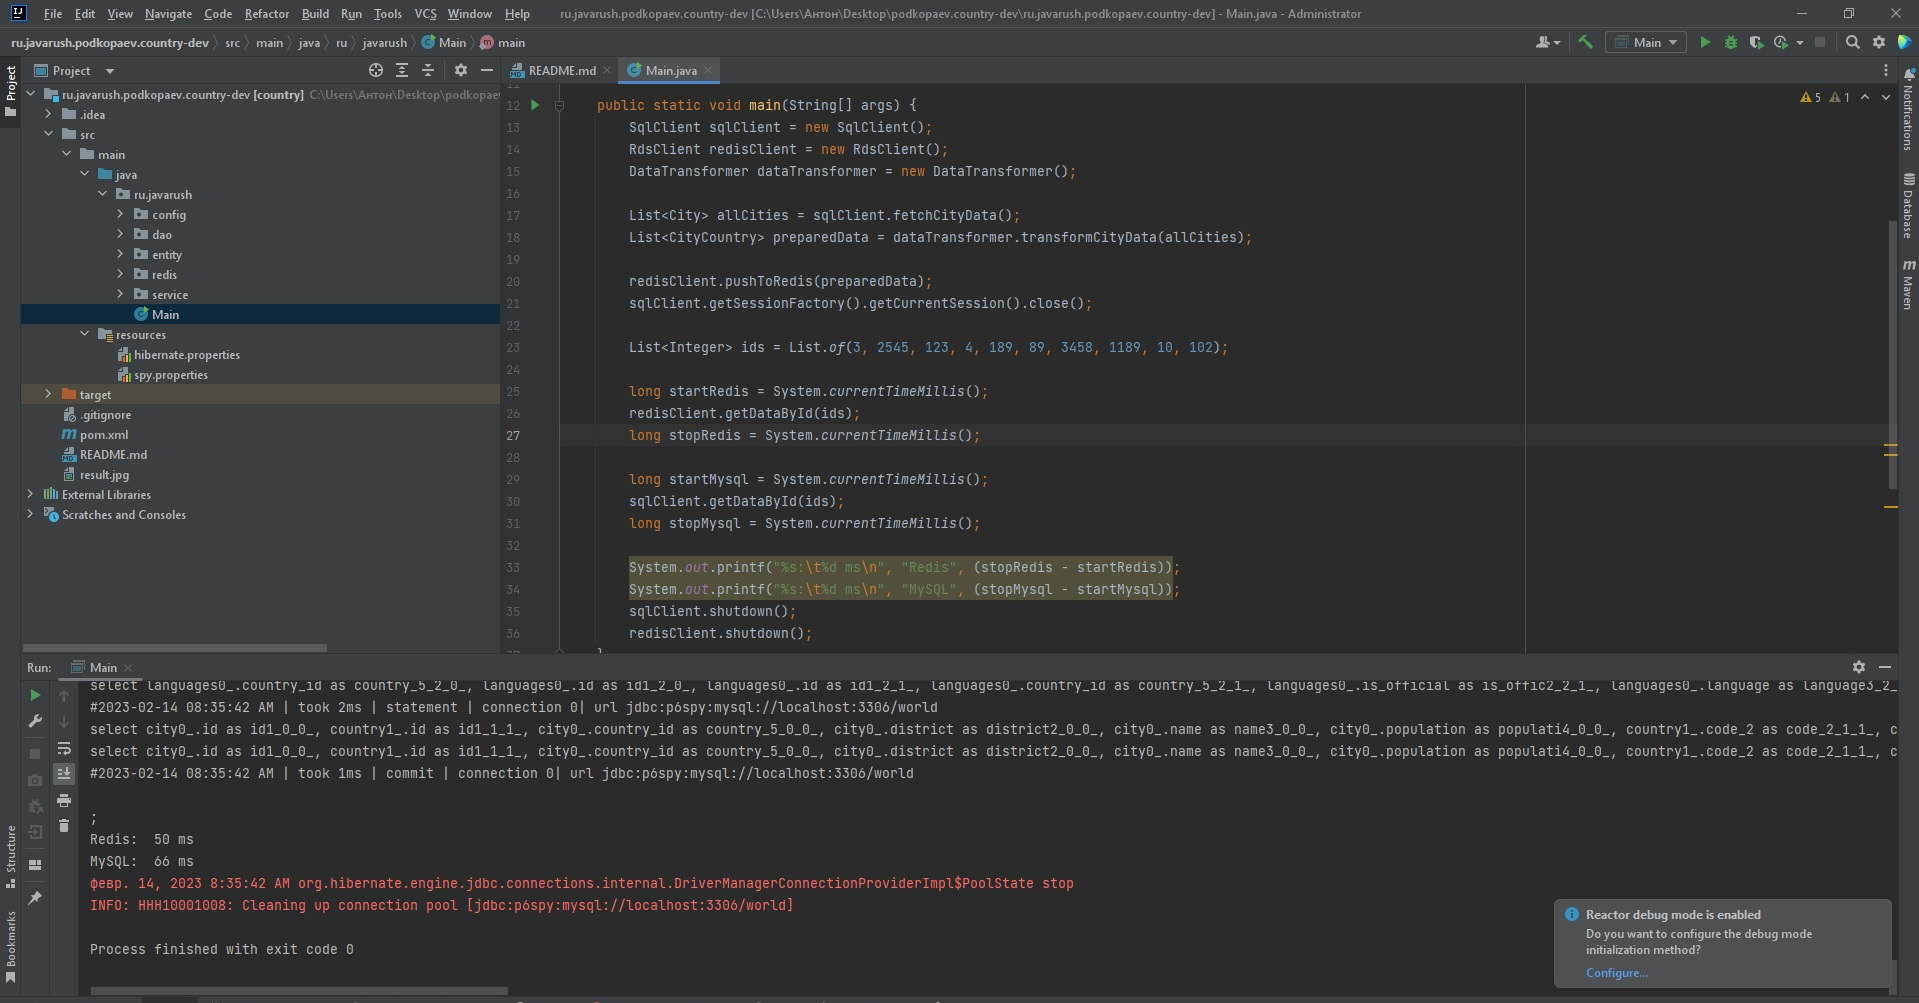
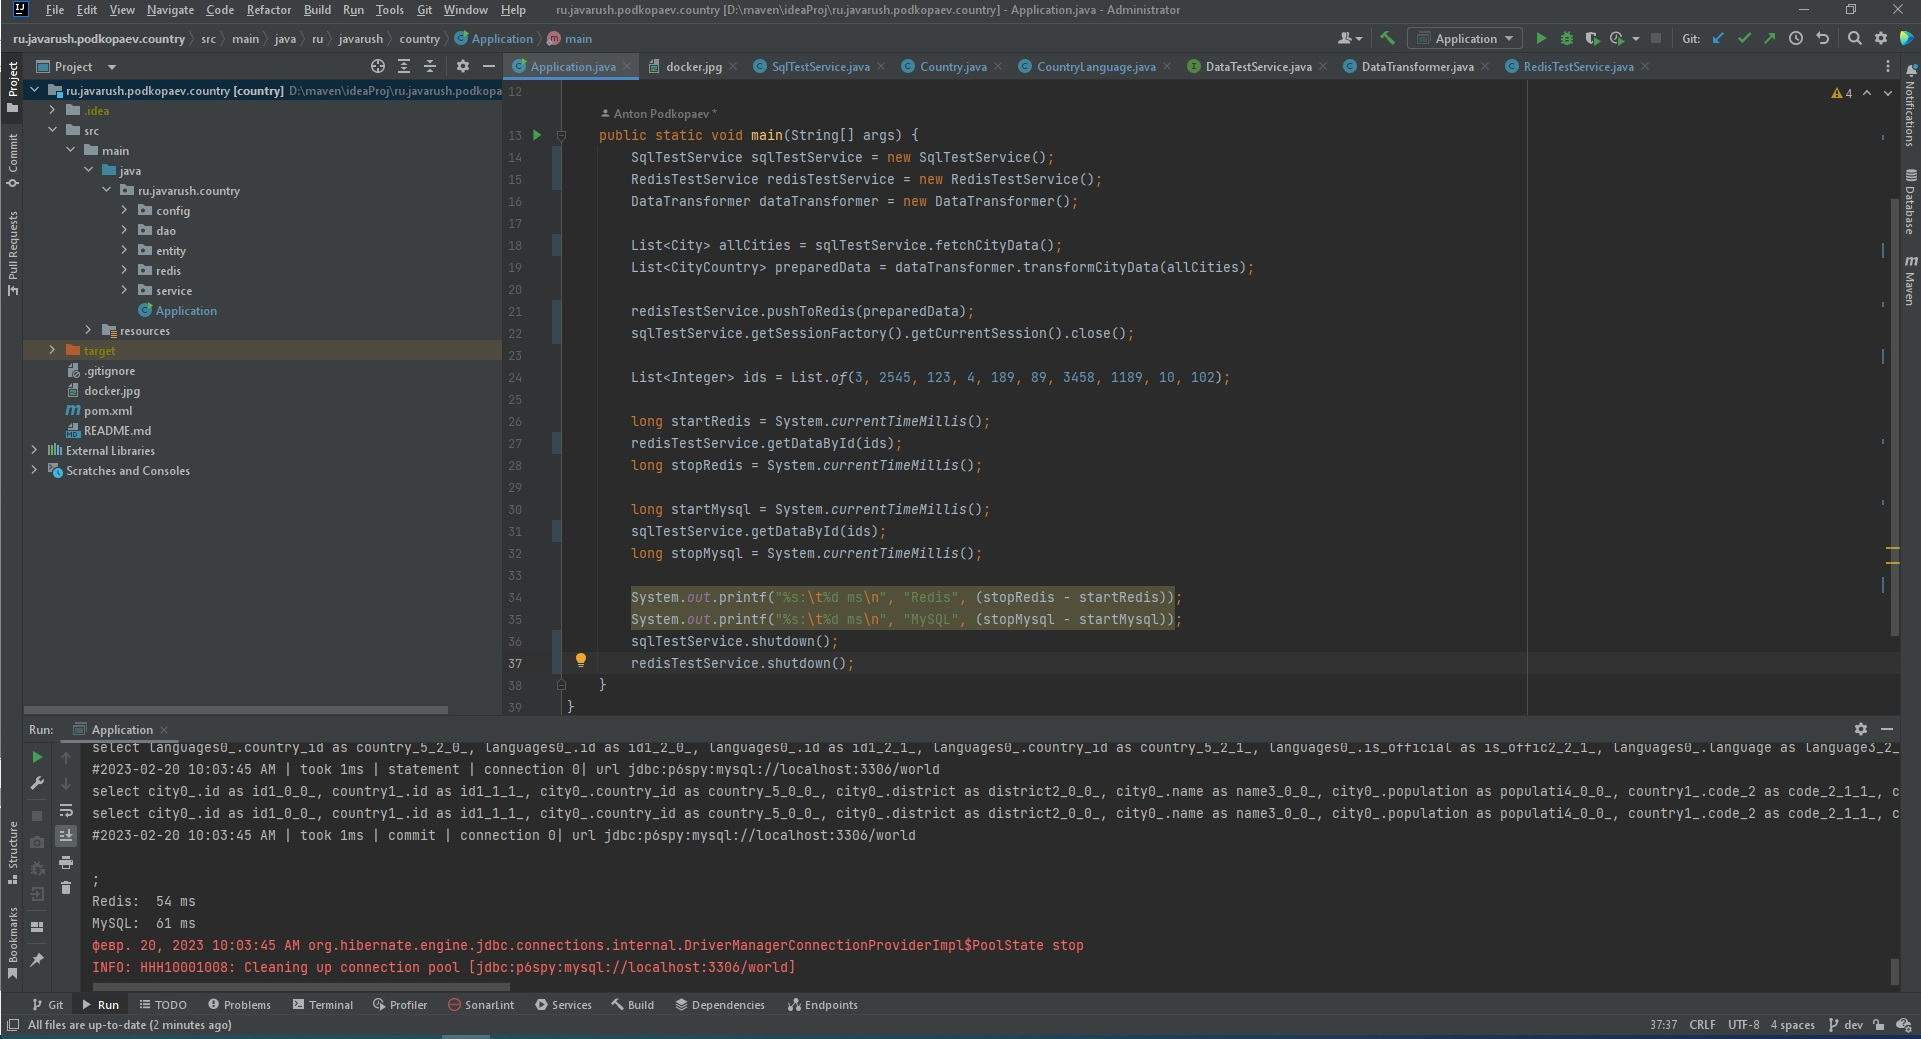
change_toString_equals_hashcode_add_exception_rename_files_add_pic

diff --git a/src/main/java/ru/javarush/country/Application.java b/src/main/java/ru/javarush/country/Application.java
@@ -2,8 +2,8 @@ package ru.javarush.country;
 
 import ru.javarush.country.redis.CityCountry;
 import ru.javarush.country.service.DataTransformer;
-import ru.javarush.country.service.SqlService;
-import ru.javarush.country.service.RedisService;
+import ru.javarush.country.service.SqlTestService;
+import ru.javarush.country.service.RedisTestService;
 import ru.javarush.country.entity.City;
 
 import java.util.List;
@@ -11,29 +11,29 @@ import java.util.List;
 public class Application {
 
     public static void main(String[] args) {
-        SqlService sqlService = new SqlService();
-        RedisService redisService = new RedisService();
+        SqlTestService sqlTestService = new SqlTestService();
+        RedisTestService redisTestService = new RedisTestService();
         DataTransformer dataTransformer = new DataTransformer();
 
-        List<City> allCities = sqlService.fetchCityData();
+        List<City> allCities = sqlTestService.fetchCityData();
         List<CityCountry> preparedData = dataTransformer.transformCityData(allCities);
 
-        redisService.pushToRedis(preparedData);
-        sqlService.getSessionFactory().getCurrentSession().close();
+        redisTestService.pushToRedis(preparedData);
+        sqlTestService.getSessionFactory().getCurrentSession().close();
 
         List<Integer> ids = List.of(3, 2545, 123, 4, 189, 89, 3458, 1189, 10, 102);
 
         long startRedis = System.currentTimeMillis();
-        redisService.getDataById(ids);
+        redisTestService.getDataById(ids);
         long stopRedis = System.currentTimeMillis();
 
         long startMysql = System.currentTimeMillis();
-        sqlService.getDataById(ids);
+        sqlTestService.getDataById(ids);
         long stopMysql = System.currentTimeMillis();
 
         System.out.printf("%s:\t%d ms\n", "Redis", (stopRedis - startRedis));
         System.out.printf("%s:\t%d ms\n", "MySQL", (stopMysql - startMysql));
-        sqlService.shutdown();
-        redisService.shutdown();
+        sqlTestService.shutdown();
+        redisTestService.shutdown();
     }
 }

diff --git a/src/main/java/ru/javarush/country/service/RedisTestService.java b/src/main/java/ru/javarush/country/service/RedisTestService.java
@@ -1,6 +1,5 @@
 package ru.javarush.country.service;
 
-import com.fasterxml.jackson.core.JacksonException;
 import com.fasterxml.jackson.core.JsonProcessingException;
 import com.fasterxml.jackson.databind.ObjectMapper;
 import io.lettuce.core.RedisClient;
@@ -13,11 +12,11 @@ import java.util.List;
 
 import static java.util.Objects.nonNull;
 
-public class RedisService implements DataTestService {
+public class RedisTestService implements DataTestService {
     private final RedisClient redisClient;
     private final ObjectMapper mapper;
 
-    public RedisService(){
+    public RedisTestService(){
         redisClient = prepareRedisClient();
         mapper = new ObjectMapper();
     }
@@ -37,7 +36,7 @@ public class RedisService implements DataTestService {
                 try {
                     sync.set(String.valueOf(cityCountry.getId()),mapper.writeValueAsString(cityCountry));
                 }catch (JsonProcessingException e){
-                    e.printStackTrace();
+                    throw new RuntimeException(e.getMessage());
                 }
             }
         }
@@ -52,7 +51,7 @@ public class RedisService implements DataTestService {
                 try {
                     mapper.readValue(value, CityCountry.class);
                 } catch (JsonProcessingException e) {
-                    e.printStackTrace();
+                    throw new RuntimeException(e.getMessage());
                 }
             }
         }

diff --git a/src/main/java/ru/javarush/country/redis/CityCountry.java b/src/main/java/ru/javarush/country/redis/CityCountry.java
@@ -140,14 +140,15 @@ public class CityCountry {
     public boolean equals(Object o) {
         if (this == o) return true;
         if (!(o instanceof CityCountry that)) return false;
-        return Objects.equals(name, that.name)
-                && Objects.equals(district, that.district)
-                && Objects.equals(population, that.population)
-                && Objects.equals(countryCode, that.countryCode)
-                && Objects.equals(alternativeCountryCode, that.alternativeCountryCode)
-                && Objects.equals(countryName, that.countryName)
-                && Objects.equals(countryRegion, that.countryRegion)
-                && Objects.equals(countrySurfaceArea, that.countrySurfaceArea)
+        return  Objects.equals(id, that.getId())
+                && Objects.equals(name, that.getName())
+                && Objects.equals(district, that.getDistrict())
+                && Objects.equals(population, that.getPopulation())
+                && Objects.equals(countryCode, that.getCountryCode())
+                && Objects.equals(alternativeCountryCode, that.getAlternativeCountryCode())
+                && Objects.equals(countryName, that.getCountryCode())
+                && Objects.equals(countryRegion, that.getCountryRegion())
+                && Objects.equals(countrySurfaceArea, that.getCountrySurfaceArea())
                 && Objects.equals(countryPopulation, that.countryPopulation);
     }
 

diff --git a/src/main/java/ru/javarush/country/entity/City.java b/src/main/java/ru/javarush/country/entity/City.java
@@ -76,7 +76,8 @@ public class City {
     public boolean equals(Object o) {
         if (this == o) return true;
         if (!(o instanceof City city)) return false;
-        return Objects.equals(name, city.getName())
+        return  Objects.equals(id, city.getId())
+                && Objects.equals(name, city.getName())
                 && Objects.equals(country.getName(), city.getCountry().getName())
                 && Objects.equals(district, city.getDistrict())
                 && Objects.equals(population, city.getPopulation());
@@ -84,7 +85,7 @@ public class City {
 
     @Override
     public int hashCode() {
-        return Objects.hash(name, getCountry().getName(), district, population);
+        return Objects.hash(name, country.getName(), district, population);
     }
 
     @Override

diff --git a/src/main/java/ru/javarush/country/service/SqlTestService.java b/src/main/java/ru/javarush/country/service/SqlTestService.java
@@ -17,12 +17,12 @@ import java.util.Set;
 
 import static java.util.Objects.nonNull;
 
-public class SqlService implements DataTestService {
+public class SqlTestService implements DataTestService {
     private final SessionFactory sessionFactory;
     private final CityDao cityDao;
     private final CountryDao countryDao;
     private static final int DATA_FETCH_STEP = 500;
-    public SqlService(){
+    public SqlTestService(){
         PropertiesSessionFactoryProvider properties = new PropertiesSessionFactoryProvider();
         sessionFactory = properties.getSessionFactory();
         cityDao = new HibernateCityDao(sessionFactory);

diff --git a/src/main/java/ru/javarush/country/entity/CountryLanguage.java b/src/main/java/ru/javarush/country/entity/CountryLanguage.java
@@ -79,7 +79,8 @@ public class CountryLanguage {
     public boolean equals(Object o) {
         if (this == o) return true;
         if (!(o instanceof CountryLanguage that)) return false;
-        return Objects.equals(country.getName(), that.getCountry().getName())
+        return  Objects.equals(id, that.getId())
+                && Objects.equals(country.getName(), that.getCountry().getName())
                 && Objects.equals(language, that.getLanguage())
                 && Objects.equals(isOfficial, that.getOfficial())
                 && Objects.equals(percentage, that.getPercentage());

diff --git a/src/main/java/ru/javarush/country/entity/Country.java b/src/main/java/ru/javarush/country/entity/Country.java
@@ -216,7 +216,8 @@ public class Country {
     public boolean equals(Object o) {
         if (this == o) return true;
         if (!(o instanceof Country country)) return false;
-        return  Objects.equals(code, country.getCode())
+        return  Objects.equals(id, country.getId())
+                && Objects.equals(code, country.getCode())
                 && Objects.equals(alternativeCode, country.getAlternativeCode())
                 && Objects.equals(name, country.getName())
                 && Objects.equals(region, country.getRegion())

diff --git a/src/main/java/ru/javarush/country/redis/Language.java b/src/main/java/ru/javarush/country/redis/Language.java
@@ -1,7 +1,6 @@
 package ru.javarush.country.redis;
 
 import ru.javarush.country.entity.CountryLanguage;
-
 import java.math.BigDecimal;
 import java.util.Objects;
 
